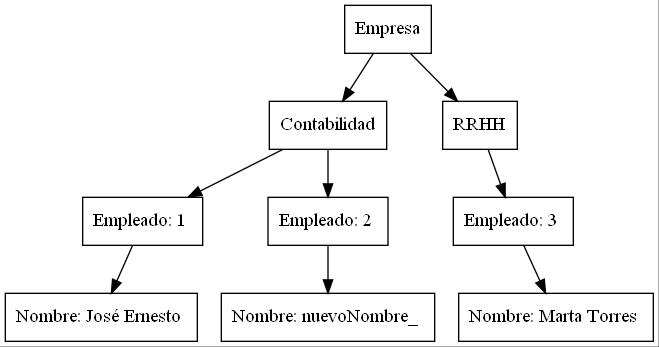
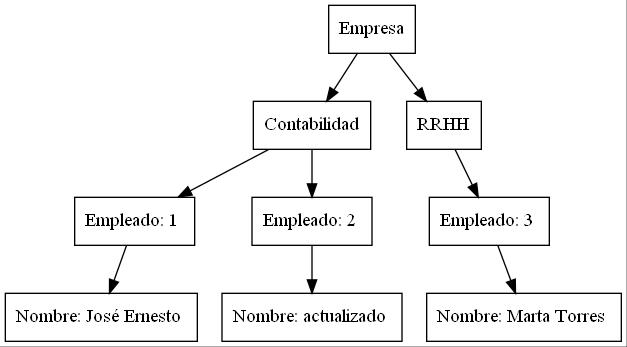
api get post modificarEmp

diff --git a/Clase 06-20/index.py b/Clase 06-20/index.py
@@ -29,43 +29,67 @@ def ruta1():
     objJson=json.loads(cadena)
     return objJson
 
-#Definimos una ruta GET
-@app.route('/cargar')
-def carga():
+#Definimos una ruta GET mostrar empleados
+@app.route('/empleados')
+def empleados():
+    #Cargamos la info
     arbol=ET.parse('empleados.xml')
     #Obtenemos la raiz getroot con minuscula
     raiz=arbol.getroot()
+
+    #cadena de txt en donde guardamos la info en formato JSON
     cadena=escribirJSONempleado(raiz)
+
+    #convertir la cadena de txt a JSON
     objJson=json.loads(cadena)
     return objJson
 
+#metodo para exribir la cadena de txt en formato JSON
 def escribirJSONempleado(raiz_):
     cadena=""
     cadena+="{"+"\n"
     cadena+="\"empresa\":{"+"\n"
     cadena+="\"departamento\":["+"\n"
 
+    #buscamos la cantidad de departamentos existentes
     cantDepartamentos=len(raiz_.findall('./departamento'))
     contadorDep=0
+
+    #recorrer los departamentos para escribirlos en la cadena
     for departamento in raiz_:
         contadorDep+=1
+        
+        
         cadena+="{"+"\n"
         nombreDepartamento=departamento.attrib['departamento']
+
         cadena+="\"departamento\":"+"\""+nombreDepartamento+"\","+"\n"
         cadena+="\"empleado\":["+"\n"
 
         cantEmpleados=len(departamento.findall('./empleado'))
         contadorEmpleados=0
+
+        #recorremos cada empleado del departamento y lo escribimos
         for empleado in departamento:
             contadorEmpleados+=1
+            
+            
             cadena+="{"+"\n"
             idEmpleado=empleado.attrib['id']
-            cadena+="\"id\":"+"\""+idEmpleado+"\""+"\n"
+            nombreEmpleado=empleado.findall('nombre')[0].text
+            cadena+="\"id\":"+"\""+idEmpleado+"\""+",\n"
+            cadena+="\"nombre\":"+"\""+nombreEmpleado+"\""+"\n"
+            
+            #cerrar el objeto Empleado
             cadena+="}"+"\n"
             #Si no es el ultimo elemento, agregar una ,
             if(contadorEmpleados<cantEmpleados):
                 cadena+=","+"\n"
+
+        #Cerramos el listado de empleados del departamento
         cadena+="]"+"\n"
+
+        #Cerramos el objeto departamento
         cadena+="}"+"\n"
 
         #Si no es el ultimo elemento, agregar una ,
@@ -83,12 +107,12 @@ def escribirJSONempleado(raiz_):
     return cadena
 
 #Definimos una ruta GET
-@app.route('/reporte')
+@app.route('/reporteEmpleados')
 def reporte1():
+    #cargamos los datos
     arbol=ET.parse('empleados.xml')
     #Obtenemos la raiz getroot con minuscula
     raiz=arbol.getroot()
-    modificarEmpleado(arbol,raiz,2,'nuevoNombre_')
     Graficar1(raiz)
     return 'listo'
 
@@ -160,7 +184,26 @@ def Graficar1(raiz_):
     comandoDot = "dot -Tjpg comandos/archivo.dot -o reportes/reporte2.jpg"
     os.system(comandoDot)
 
-def modificarEmpleado(arbol_,raiz_,idBuscado,nuevoNombre_):
+#peticion POST modificar empleado
+@app.route('/modificarEmpleado',methods=["POST"])
+def modificarEmp():
+    #leer los datos del json
+    jsonres=request.get_json()
+
+    #Guardar en variables los campos del JSON
+    id_=int(jsonres["id"])
+    nombre_=jsonres["nombre"]
+
+    #Leemos el XML
+    arbol=ET.parse('empleados.xml')
+    #Obtenemos la raiz getroot con minuscula
+
+    #modificamos el empleado
+    modificarEmpleado(arbol,id_,nombre_)
+    return 'listo'
+
+def modificarEmpleado(arbol_,idBuscado,nuevoNombre_):
+    raiz_=arbol_.getroot()
     for departamento in raiz_:
         # print('Departamento: ',departamento.attrib['departamento'],'; Ubicacion:',departamento.attrib['ubicacion'])
         for empleado in departamento:
@@ -168,7 +211,6 @@ def modificarEmpleado(arbol_,raiz_,idBuscado,nuevoNombre_):
             if(idActual==idBuscado):
                 #encontramos el empleado que estabamos buscando
                 empleado.findall('nombre')[0].text=nuevoNombre_
-                #sobre escribimos el archivo
                 arbol_.write('empleados.xml',xml_declaration=True,encoding="utf-8")
                 return #Despues de actualizar el dato, nos salimos del metodo
     print('No se encontro el id')
